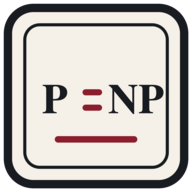
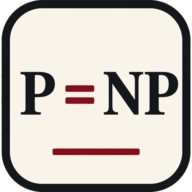
Refactor code structure for improved readability and maintainability

diff --git a/404.html b/404.html
@@ -12,7 +12,7 @@
   <meta property="og:description" content="Page not found on PNP Labs.">
   <meta property="og:url" content="https://pnplabs.com.au/404.html">
   <meta name="twitter:card" content="summary_large_image">
-  <link rel="icon" href="assets/pnp-labs-mark.svg" type="image/svg+xml">
+  <link rel="icon" href="assets/icon-192.png" type="image/png">
   <link rel="apple-touch-icon" href="assets/apple-touch-icon.png">
   <link rel="manifest" href="assets/site.webmanifest">
   <link rel="preload" href="assets/styles.css" as="style">
@@ -24,7 +24,7 @@
   <header class="site-header">
     <div class="nav-wrap">
       <a class="brand" href="index.html" aria-label="PNP Labs home">
-        <span class="brand-mark" aria-hidden="true"><img src="assets/pnp-labs-mark.svg" alt=""></span>
+        <span class="brand-mark" aria-hidden="true"><img src="assets/pnp-labs-mark.png" alt=""></span>
         <span class="brand-text"><strong>PNP Labs</strong><span>Checker-boundary artefacts</span></span>
       </a>
       <nav id="nav" class="nav-links" data-nav aria-label="Main navigation">
@@ -55,7 +55,7 @@
     <div class="footer-wrap">
       <div>
         <a class="brand" href="index.html" aria-label="PNP Labs home">
-          <span class="brand-mark" aria-hidden="true"><img src="assets/pnp-labs-mark.svg" alt=""></span>
+          <span class="brand-mark" aria-hidden="true"><img src="assets/pnp-labs-mark.png" alt=""></span>
           <span class="brand-text"><strong>PNP Labs</strong><span>Formal verification software and checker-boundary artefacts.</span></span>
         </a>
         <p>PNP Labs Pty Ltd · ABN 70 699 026 063 · Independent technical review invited.</p>

diff --git a/architecture.html b/architecture.html
@@ -12,7 +12,7 @@
   <meta property="og:description" content="Architecture map for the finite-certificate proof stack, package checker, and final acceptance route.">
   <meta property="og:url" content="https://pnplabs.com.au/architecture.html">
   <meta name="twitter:card" content="summary_large_image">
-  <link rel="icon" href="assets/pnp-labs-mark.svg" type="image/svg+xml">
+  <link rel="icon" href="assets/icon-192.png" type="image/png">
   <link rel="apple-touch-icon" href="assets/apple-touch-icon.png">
   <link rel="manifest" href="assets/site.webmanifest">
   <link rel="preload" href="assets/styles.css" as="style">
@@ -24,7 +24,7 @@
   <header class="site-header">
     <div class="nav-wrap">
       <a class="brand" href="index.html" aria-label="PNP Labs home">
-        <span class="brand-mark" aria-hidden="true"><img src="assets/pnp-labs-mark.svg" alt=""></span>
+        <span class="brand-mark" aria-hidden="true"><img src="assets/pnp-labs-mark.png" alt=""></span>
         <span class="brand-text"><strong>PNP Labs</strong><span>Checker-boundary artefacts</span></span>
       </a>
       <nav id="nav" class="nav-links" data-nav aria-label="Main navigation">
@@ -93,7 +93,7 @@
     <div class="footer-wrap">
       <div>
         <a class="brand" href="index.html" aria-label="PNP Labs home">
-          <span class="brand-mark" aria-hidden="true"><img src="assets/pnp-labs-mark.svg" alt=""></span>
+          <span class="brand-mark" aria-hidden="true"><img src="assets/pnp-labs-mark.png" alt=""></span>
           <span class="brand-text"><strong>PNP Labs</strong><span>Formal verification software and checker-boundary artefacts.</span></span>
         </a>
         <p>PNP Labs Pty Ltd · ABN 70 699 026 063 · Independent technical review invited.</p>

diff --git a/faq.html b/faq.html
@@ -12,7 +12,7 @@
   <meta property="og:description" content="Careful public and technical answers about the PNP Labs machine-checkable proof-report claim.">
   <meta property="og:url" content="https://pnplabs.com.au/faq.html">
   <meta name="twitter:card" content="summary_large_image">
-  <link rel="icon" href="assets/pnp-labs-mark.svg" type="image/svg+xml">
+  <link rel="icon" href="assets/icon-192.png" type="image/png">
   <link rel="apple-touch-icon" href="assets/apple-touch-icon.png">
   <link rel="manifest" href="assets/site.webmanifest">
   <link rel="preload" href="assets/styles.css" as="style">
@@ -24,7 +24,7 @@
   <header class="site-header">
     <div class="nav-wrap">
       <a class="brand" href="index.html" aria-label="PNP Labs home">
-        <span class="brand-mark" aria-hidden="true"><img src="assets/pnp-labs-mark.svg" alt=""></span>
+        <span class="brand-mark" aria-hidden="true"><img src="assets/pnp-labs-mark.png" alt=""></span>
         <span class="brand-text"><strong>PNP Labs</strong><span>Checker-boundary artefacts</span></span>
       </a>
       <nav id="nav" class="nav-links" data-nav aria-label="Main navigation">
@@ -71,7 +71,7 @@
     <div class="footer-wrap">
       <div>
         <a class="brand" href="index.html" aria-label="PNP Labs home">
-          <span class="brand-mark" aria-hidden="true"><img src="assets/pnp-labs-mark.svg" alt=""></span>
+          <span class="brand-mark" aria-hidden="true"><img src="assets/pnp-labs-mark.png" alt=""></span>
           <span class="brand-text"><strong>PNP Labs</strong><span>Formal verification software and checker-boundary artefacts.</span></span>
         </a>
         <p>PNP Labs Pty Ltd · ABN 70 699 026 063 · Independent technical review invited.</p>

diff --git a/index.html b/index.html
@@ -12,7 +12,7 @@
   <meta property="og:description" content="A machine-checkable proof-report claim at the P versus NP boundary, with public report files, release seal, and verification workflow.">
   <meta property="og:url" content="https://pnplabs.com.au/">
   <meta name="twitter:card" content="summary_large_image">
-  <link rel="icon" href="assets/pnp-labs-mark.svg" type="image/svg+xml">
+  <link rel="icon" href="assets/icon-192.png" type="image/png">
   <link rel="apple-touch-icon" href="assets/apple-touch-icon.png">
   <link rel="manifest" href="assets/site.webmanifest">
   <link rel="preload" href="assets/styles.css" as="style">
@@ -24,7 +24,7 @@
   <header class="site-header">
     <div class="nav-wrap">
       <a class="brand" href="index.html" aria-label="PNP Labs home">
-        <span class="brand-mark" aria-hidden="true"><img src="assets/pnp-labs-mark.svg" alt=""></span>
+        <span class="brand-mark" aria-hidden="true"><img src="assets/pnp-labs-mark.png" alt=""></span>
         <span class="brand-text"><strong>PNP Labs</strong><span>Checker-boundary artefacts</span></span>
       </a>
       <nav id="nav" class="nav-links" data-nav aria-label="Main navigation">
@@ -269,7 +269,7 @@
     <div class="footer-wrap">
       <div>
         <a class="brand" href="index.html" aria-label="PNP Labs home">
-          <span class="brand-mark" aria-hidden="true"><img src="assets/pnp-labs-mark.svg" alt=""></span>
+          <span class="brand-mark" aria-hidden="true"><img src="assets/pnp-labs-mark.png" alt=""></span>
           <span class="brand-text"><strong>PNP Labs</strong><span>Formal verification software and checker-boundary artefacts.</span></span>
         </a>
         <p>PNP Labs Pty Ltd · ABN 70 699 026 063 · Independent technical review invited.</p>

diff --git a/paper.html b/paper.html
@@ -12,7 +12,7 @@
   <meta property="og:description" content="A structured guide to the locked NAND residual-slack proof report and checker boundary.">
   <meta property="og:url" content="https://pnplabs.com.au/paper.html">
   <meta name="twitter:card" content="summary_large_image">
-  <link rel="icon" href="assets/pnp-labs-mark.svg" type="image/svg+xml">
+  <link rel="icon" href="assets/icon-192.png" type="image/png">
   <link rel="apple-touch-icon" href="assets/apple-touch-icon.png">
   <link rel="manifest" href="assets/site.webmanifest">
   <link rel="preload" href="assets/styles.css" as="style">
@@ -24,7 +24,7 @@
   <header class="site-header">
     <div class="nav-wrap">
       <a class="brand" href="index.html" aria-label="PNP Labs home">
-        <span class="brand-mark" aria-hidden="true"><img src="assets/pnp-labs-mark.svg" alt=""></span>
+        <span class="brand-mark" aria-hidden="true"><img src="assets/pnp-labs-mark.png" alt=""></span>
         <span class="brand-text"><strong>PNP Labs</strong><span>Checker-boundary artefacts</span></span>
       </a>
       <nav id="nav" class="nav-links" data-nav aria-label="Main navigation">
@@ -97,7 +97,7 @@
     <div class="footer-wrap">
       <div>
         <a class="brand" href="index.html" aria-label="PNP Labs home">
-          <span class="brand-mark" aria-hidden="true"><img src="assets/pnp-labs-mark.svg" alt=""></span>
+          <span class="brand-mark" aria-hidden="true"><img src="assets/pnp-labs-mark.png" alt=""></span>
           <span class="brand-text"><strong>PNP Labs</strong><span>Formal verification software and checker-boundary artefacts.</span></span>
         </a>
         <p>PNP Labs Pty Ltd · ABN 70 699 026 063 · Independent technical review invited.</p>

diff --git a/review.html b/review.html
@@ -12,7 +12,7 @@
   <meta property="og:description" content="Review tracks and contact channels for independent mathematical review, source repository access, and security disclosure.">
   <meta property="og:url" content="https://pnplabs.com.au/review.html">
   <meta name="twitter:card" content="summary_large_image">
-  <link rel="icon" href="assets/pnp-labs-mark.svg" type="image/svg+xml">
+  <link rel="icon" href="assets/icon-192.png" type="image/png">
   <link rel="apple-touch-icon" href="assets/apple-touch-icon.png">
   <link rel="manifest" href="assets/site.webmanifest">
   <link rel="preload" href="assets/styles.css" as="style">
@@ -24,7 +24,7 @@
   <header class="site-header">
     <div class="nav-wrap">
       <a class="brand" href="index.html" aria-label="PNP Labs home">
-        <span class="brand-mark" aria-hidden="true"><img src="assets/pnp-labs-mark.svg" alt=""></span>
+        <span class="brand-mark" aria-hidden="true"><img src="assets/pnp-labs-mark.png" alt=""></span>
         <span class="brand-text"><strong>PNP Labs</strong><span>Checker-boundary artefacts</span></span>
       </a>
       <nav id="nav" class="nav-links" data-nav aria-label="Main navigation">
@@ -100,7 +100,7 @@ Regards,
     <div class="footer-wrap">
       <div>
         <a class="brand" href="index.html" aria-label="PNP Labs home">
-          <span class="brand-mark" aria-hidden="true"><img src="assets/pnp-labs-mark.svg" alt=""></span>
+          <span class="brand-mark" aria-hidden="true"><img src="assets/pnp-labs-mark.png" alt=""></span>
           <span class="brand-text"><strong>PNP Labs</strong><span>Formal verification software and checker-boundary artefacts.</span></span>
         </a>
         <p>PNP Labs Pty Ltd · ABN 70 699 026 063 · Independent technical review invited.</p>

diff --git a/verify.html b/verify.html
@@ -12,7 +12,7 @@
   <meta property="og:description" content="Public verification workflow for the PNP Labs proof-report release seal.">
   <meta property="og:url" content="https://pnplabs.com.au/verify.html">
   <meta name="twitter:card" content="summary_large_image">
-  <link rel="icon" href="assets/pnp-labs-mark.svg" type="image/svg+xml">
+  <link rel="icon" href="assets/icon-192.png" type="image/png">
   <link rel="apple-touch-icon" href="assets/apple-touch-icon.png">
   <link rel="manifest" href="assets/site.webmanifest">
   <link rel="preload" href="assets/styles.css" as="style">
@@ -24,7 +24,7 @@
   <header class="site-header">
     <div class="nav-wrap">
       <a class="brand" href="index.html" aria-label="PNP Labs home">
-        <span class="brand-mark" aria-hidden="true"><img src="assets/pnp-labs-mark.svg" alt=""></span>
+        <span class="brand-mark" aria-hidden="true"><img src="assets/pnp-labs-mark.png" alt=""></span>
         <span class="brand-text"><strong>PNP Labs</strong><span>Checker-boundary artefacts</span></span>
       </a>
       <nav id="nav" class="nav-links" data-nav aria-label="Main navigation">
@@ -155,7 +155,7 @@ node ./bin/write-final-pnp-proof-report0.mjs "$B/full" --full</pre>
     <div class="footer-wrap">
       <div>
         <a class="brand" href="index.html" aria-label="PNP Labs home">
-          <span class="brand-mark" aria-hidden="true"><img src="assets/pnp-labs-mark.svg" alt=""></span>
+          <span class="brand-mark" aria-hidden="true"><img src="assets/pnp-labs-mark.png" alt=""></span>
           <span class="brand-text"><strong>PNP Labs</strong><span>Formal verification software and checker-boundary artefacts.</span></span>
         </a>
         <p>PNP Labs Pty Ltd · ABN 70 699 026 063 · Independent technical review invited.</p>

diff --git a/README.md b/README.md
@@ -14,7 +14,7 @@ The site is written for external technical readers: complexity theorists, proof 
 - `review.html` — review tracks, contact channels, and request template.
 - `downloads/canonical_proof_report.pdf` — bundled canonical proof report.
 - `downloads/canonical_proof_report.tex` — bundled TeX source.
-- `assets/` — CSS, JavaScript, manifest, and SVG mark.
+- `assets/` — CSS, JavaScript, manifest, and PNG logo/icon assets.
 
 ## Deployment
 